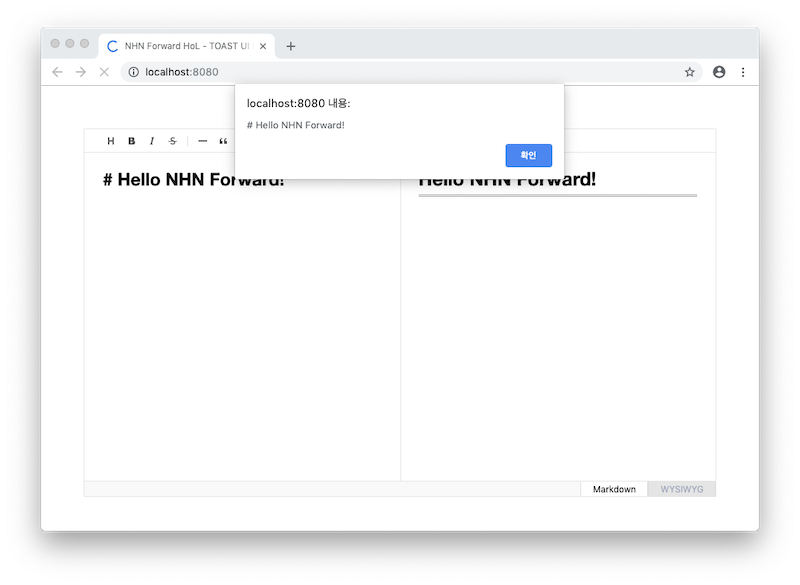
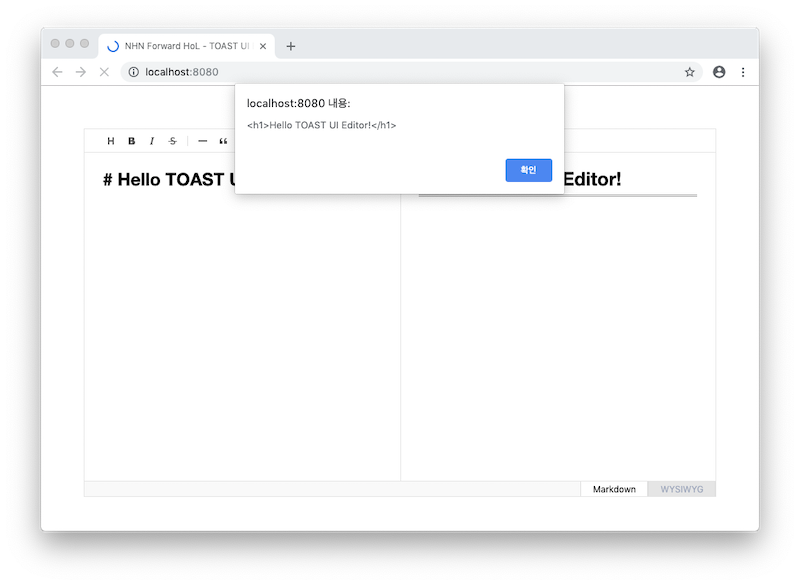
fix: change images

Changed region(s): [[0.1875, 0.2462, 0.7812, 0.3385], [0.3125, 0.1846, 0.5, 0.2462]]

diff --git a/site/04.rst b/site/04.rst
@@ -26,7 +26,6 @@ HTML
 ==============================
 
 .. image:: _static/step04-1.png
-.. image:: _static/step04-2.png
 
 
 =============
@@ -46,5 +45,4 @@ Markdown
 결과 화면
 ==============================
 
-.. image:: _static/step04-3.png
-.. image:: _static/step04-4.png
+.. image:: _static/step04-2.png
